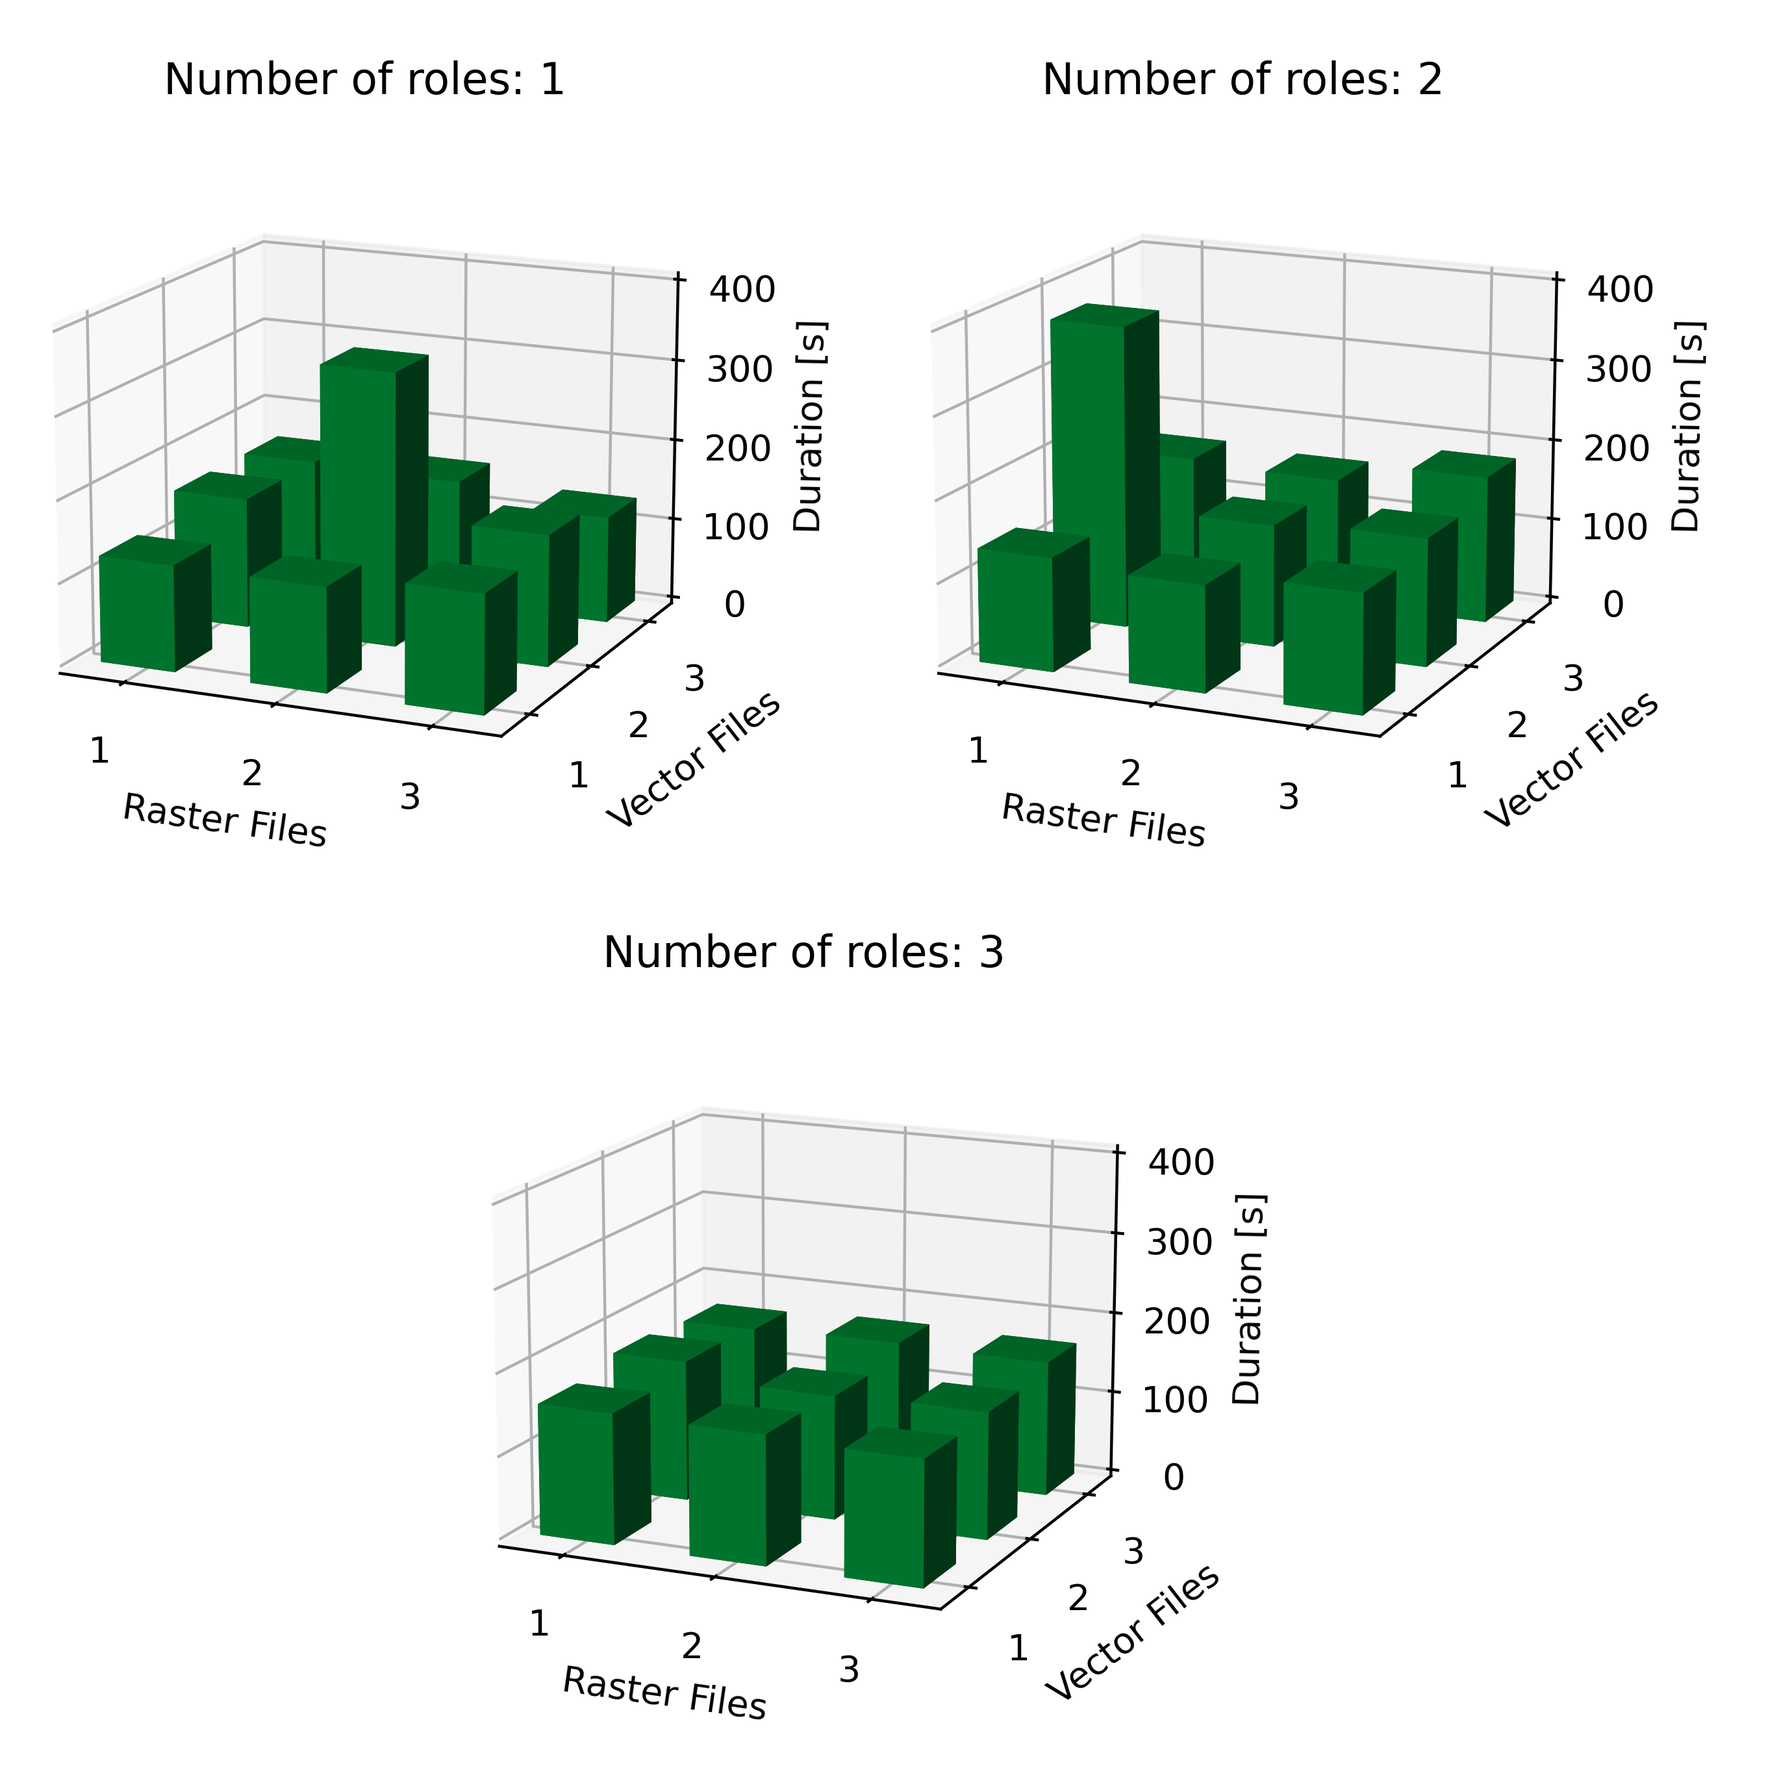
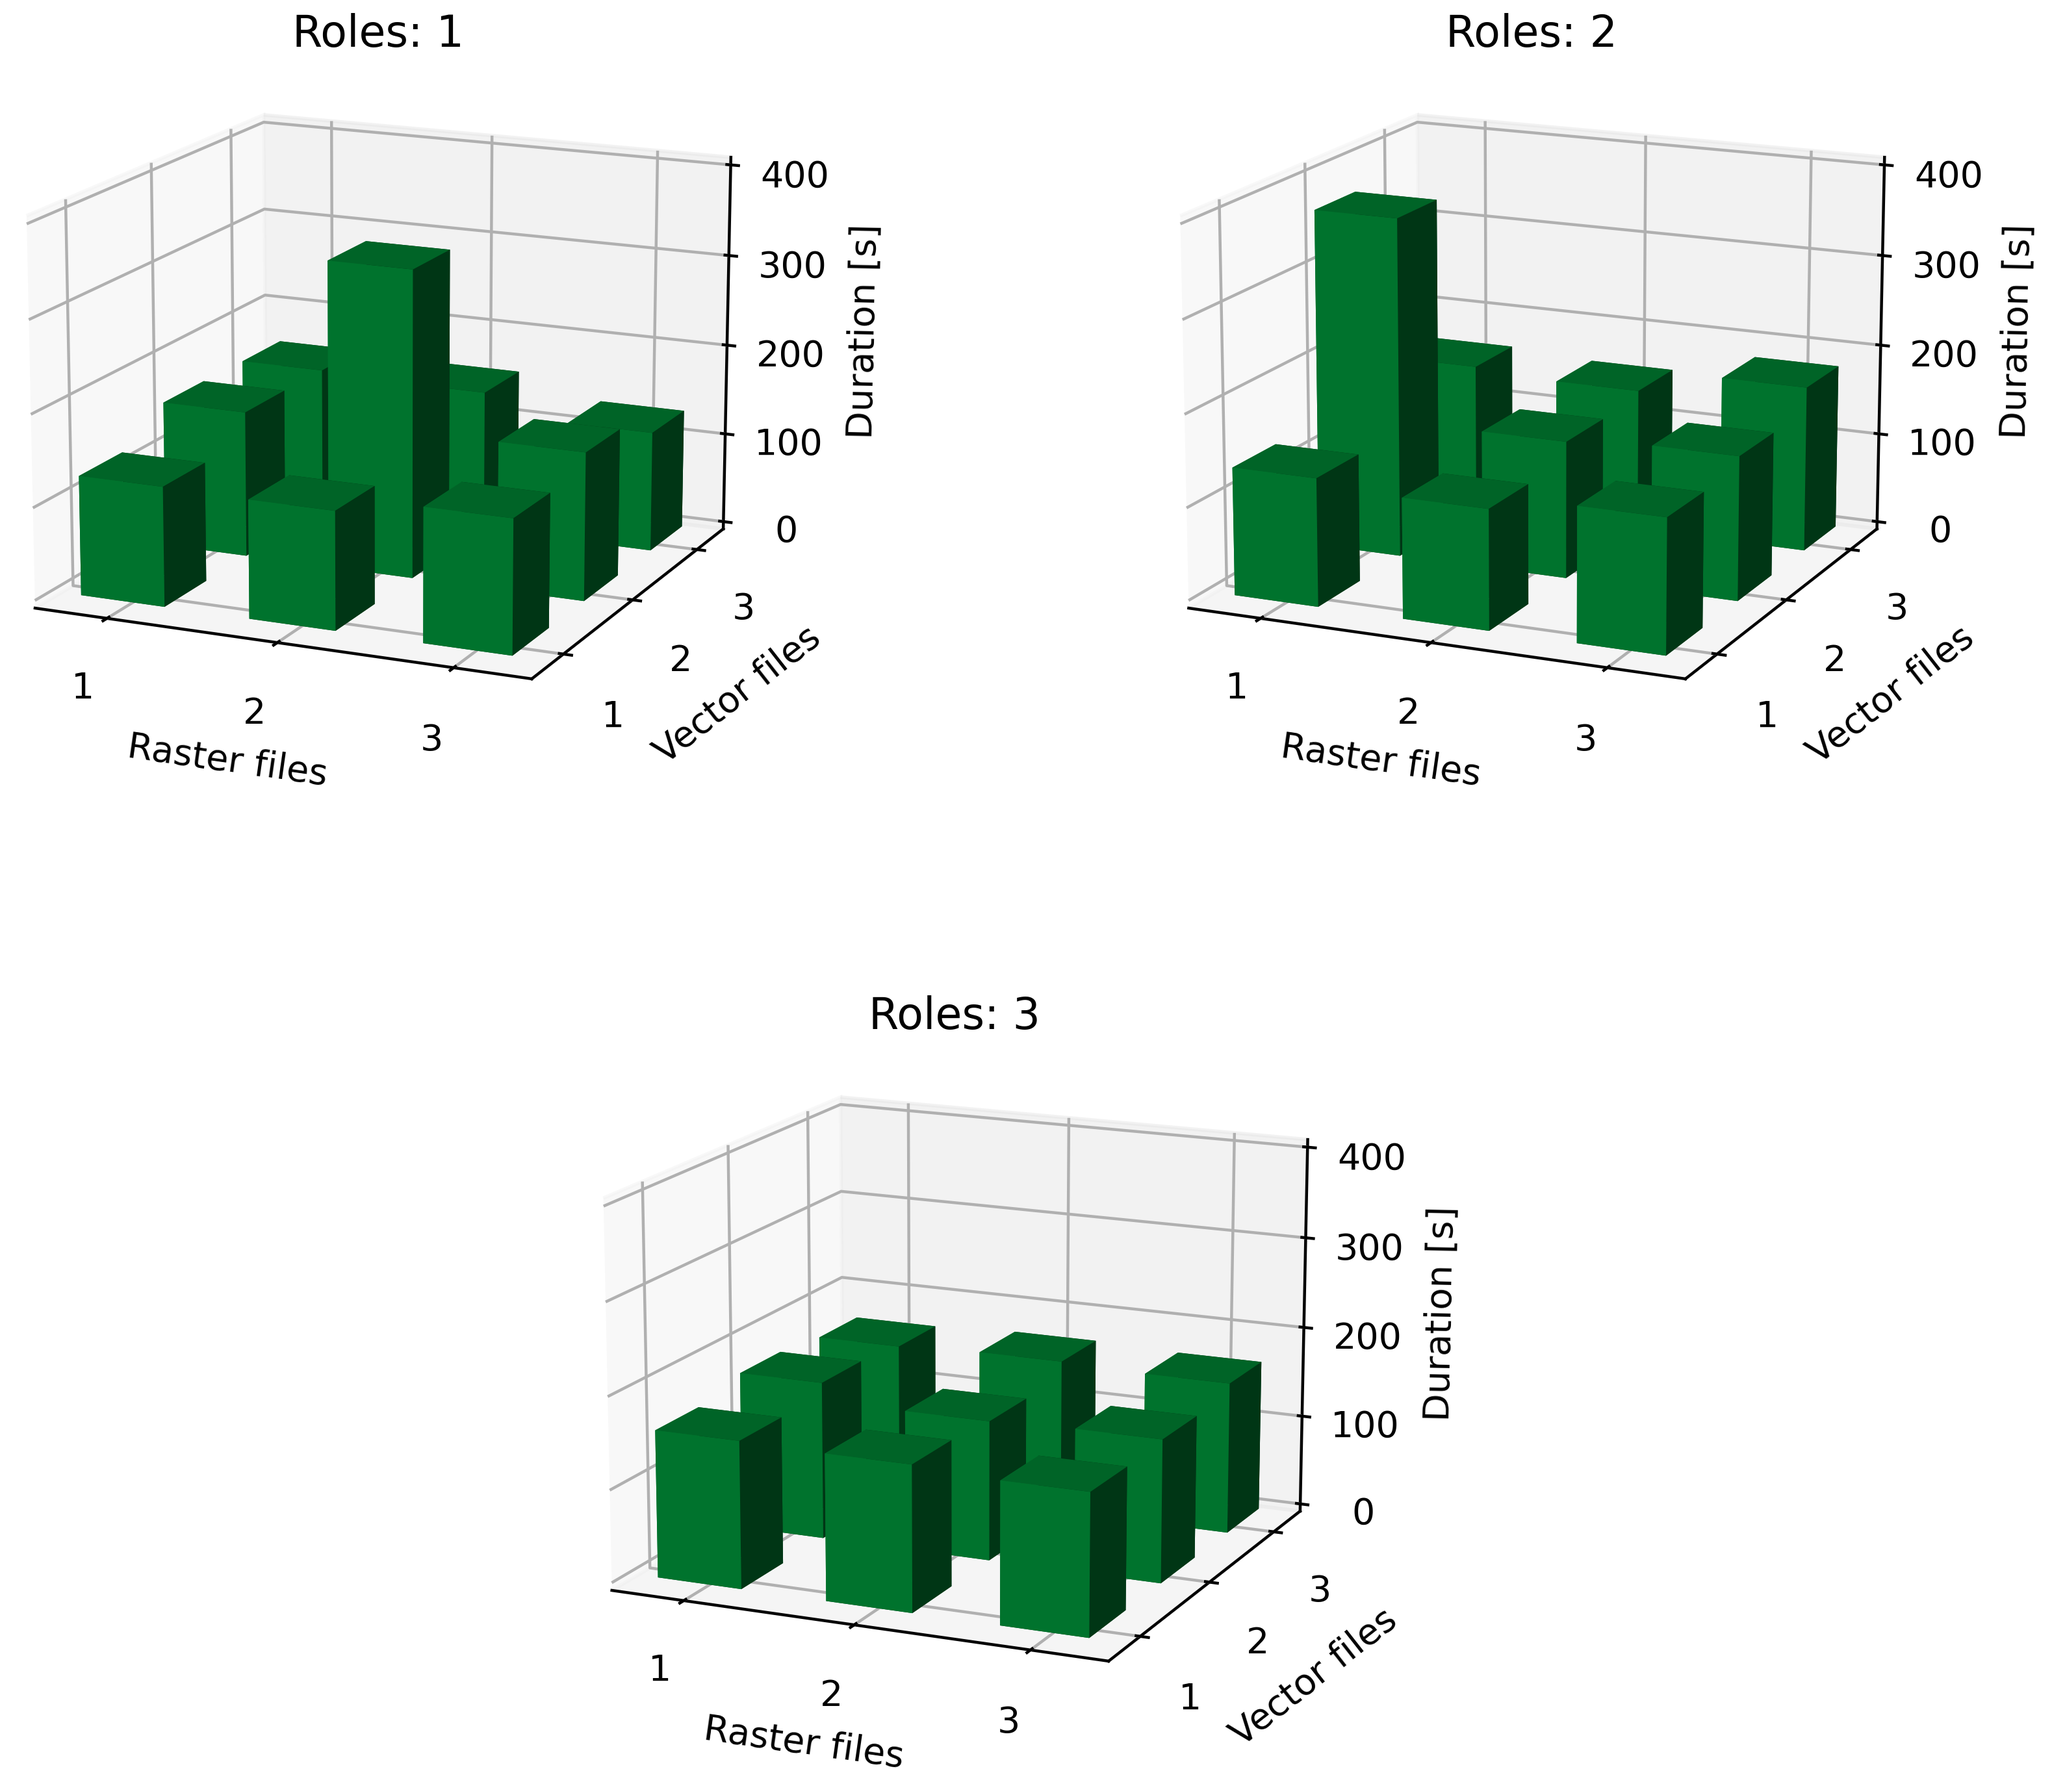
Make benchmark figure clearer

diff --git a/benchmark/results/plot.py b/benchmark/results/plot.py
@@ -12,7 +12,7 @@ def median(list):
         return list[n//2]
     return (list[n//2-1] + list[n//2]) / 2
 
-figure = plt.figure(figsize=(8, 8))
+figure = plt.figure(figsize=(10.5, 9))
 figure.tight_layout() # pad=0, w_pad=0, h_pad=0
 subplots = [
     figure.add_subplot(2, 2, 1, projection='3d'),
@@ -93,14 +93,14 @@ for index, rolesMatrix in enumerate(data):
     subplot.bar3d(x, y, z, dx, dy, dz, shade=True, color='#008233')
     subplot.set_zlim((0, 400))
     subplot.view_init(15, -66)
-    subplot.set_title('Number of roles: ' + str(roles))
-    subplot.set_xlabel('Raster Files')
-    subplot.set_ylabel('Vector Files')
+    subplot.set_title('Roles: ' + str(roles), y=0.97)
+    subplot.set_xlabel('Raster files')
+    subplot.set_ylabel('Vector files')
     subplot.set_zlabel('Duration [s]')
 
 # Statistics
-print("Mean duration = " + str(mean(durations)) + "s")
-print("Median duration = " + str(median(durations)) + "s")
+print("Arithmetic mean of duration = " + str(mean(durations)) + "s")
+print("Median of duration = " + str(median(durations)) + "s")
 
 plt.savefig(fname="benchmark.png", dpi=400)
 plt.show()
